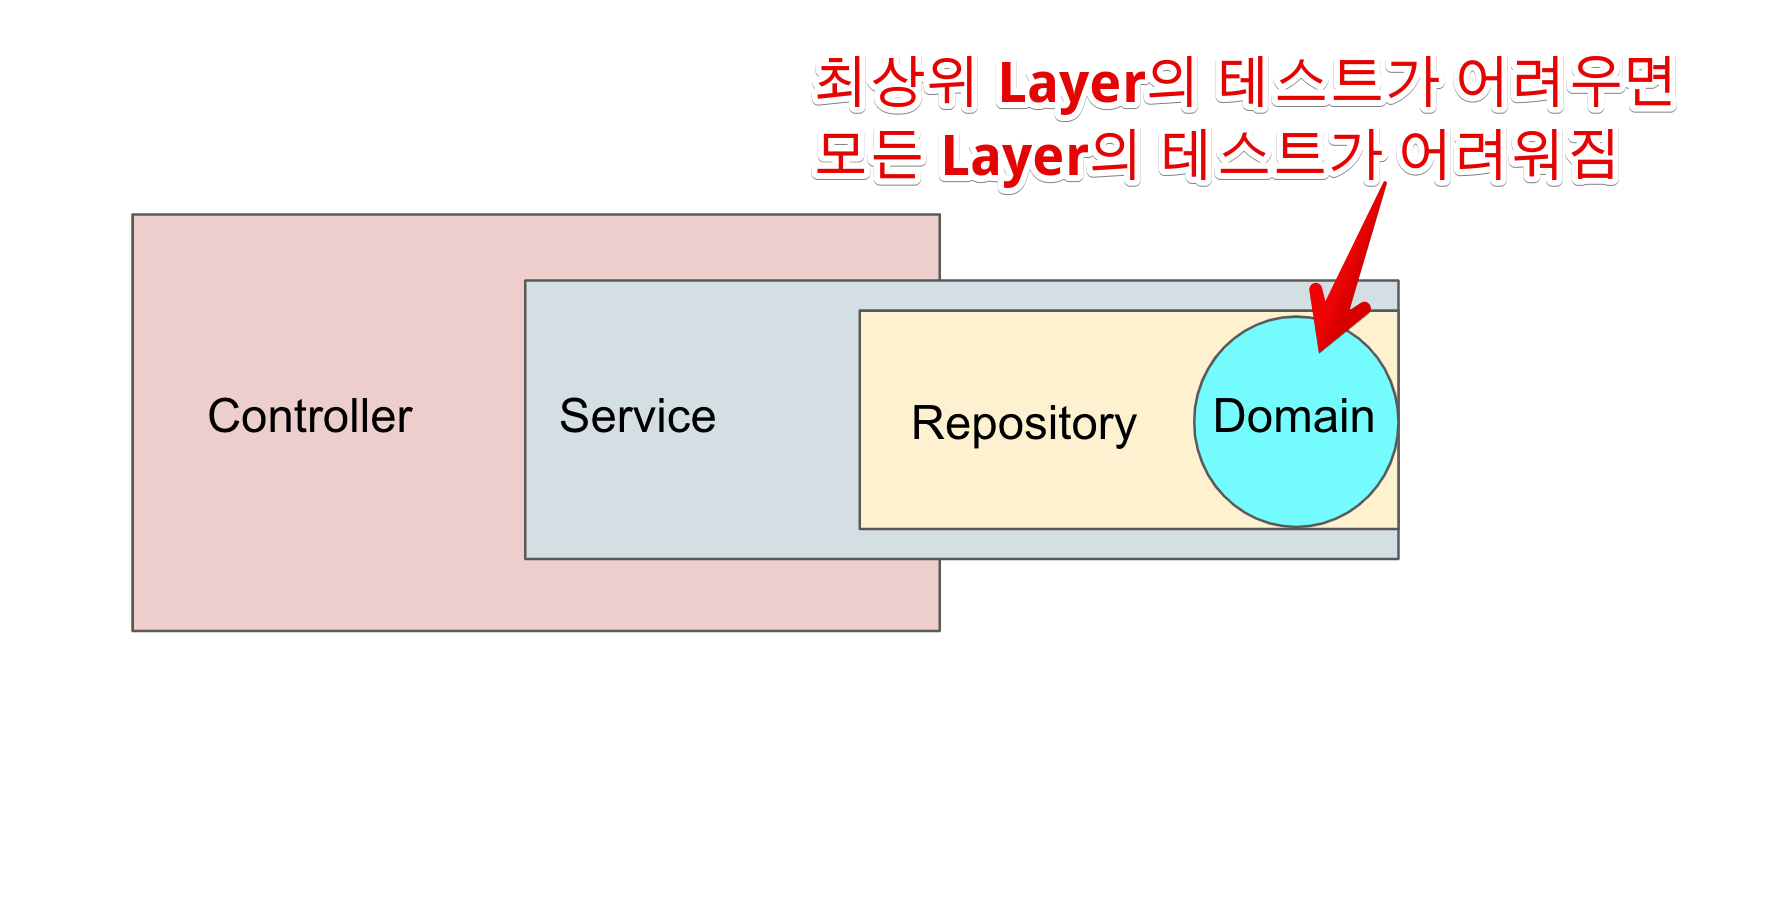
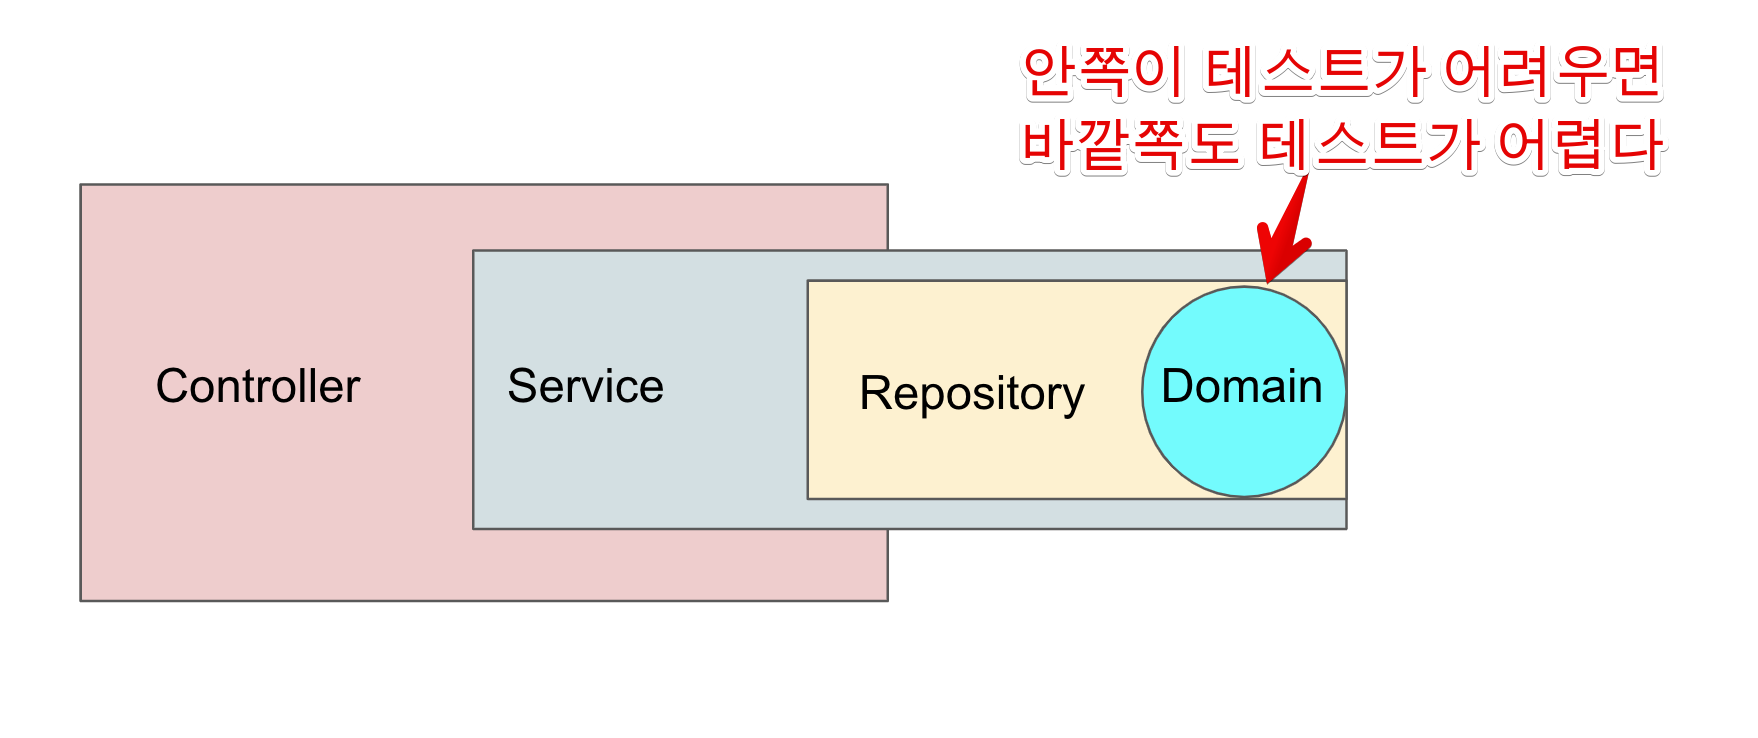
Controller / Service 예제 추가

Changed region(s): [[0.0307, 0.0623, 0.9522, 0.8415]]

diff --git a/src/order/Order.ts b/src/order/Order.ts
@@ -1,9 +1,9 @@
 import { DayOfWeek, LocalDateTime } from 'js-joda';
 import { OrderStatus } from './OrderStatus';
 import { Pay } from './Pay';
-import { getConnection, getManager } from 'typeorm';
+import { getConnection } from 'typeorm';
 
-export default class Order {
+export class Order {
 
     private _id: number;
     private _amount: number;
@@ -83,7 +83,7 @@ export default class Order {
         return cancelOrder;
     }
 
-    async cancelOrder(): void {
+    async cancelOrder() {
         const cancelTime = LocalDateTime.now();
         if(this._orderDateTime >= cancelTime) {
             throw new Error('주문 시간이 주문 취소 시간보다 늦을 수 없습니다.');

diff --git a/src/order/OrderService.ts b/src/order/OrderService.ts
@@ -11,9 +11,15 @@ export class OrderService {
         ) {
     }
 
-    validateCompletedOrder(orderId: number): void {
-        const order = this.orderRepository.findById(orderId);
-        if(order.isNotCompleted()) {
+    discount(orderId: number) {
+        const order:Order = this.orderRepository.findById(orderId);
+        order.discount();
+        this.orderRepository.save(order);
+    }
+
+    async validateCompletedOrder(orderId: number): Promise<void> {
+        const order = await this.orderRepository.findById(orderId);
+        if (order.isNotCompleted()) {
             throw new Error('아직 완료처리되지 못했습니다.');
         }
     }

diff --git a/src/order/OrderController.ts b/src/order/OrderController.ts
@@ -1,4 +1,4 @@
-import { Controller, Get } from '@nestjs/common';
+import { Controller, Get, Post } from '@nestjs/common';
 import { OrderService } from './OrderService';
 
 @Controller('/order')
@@ -8,5 +8,10 @@ export class OrderController {
     @Get('/accept')
     accept(orderId: number): void {
         return this.orderService.accept(orderId);
+    }
+
+    @Post('/discount')
+    discount(orderId: number): void {
+        return this.orderService.discount(orderId);
     }
 }

diff --git a/src/order/OrderRepository.ts b/src/order/OrderRepository.ts
@@ -27,7 +27,7 @@ export class OrderRepository {
         }
     }
 
-    findById(id: number): Order | undefined {
+    findById(id: number): Order {
         return OrderRepository.database.get(id);
     }
 }

diff --git a/posts/testable-code/2/README.md b/posts/testable-code/2/README.md
@@ -1,14 +1,11 @@
 # 2. 테스트하기 좋은 코드 - 테스트하기 좋은 코드로 개선
 
 [1편](https://jojoldu.tistory.com/674) 을 통해 테스트하기 어려운 코드에 대해 이야기를 나눴다.  
-이번 편에서는 테스트하기 어려운 코드를 어떻게 테스트 하기 좋은 형태로 개선하는지 
-
-특히 오래된 프로젝트를 보면, 다음과 같이 **제어할 수 없는 함수**가 굉장히 많다.
-
-다음과 같은 코드는 **테스트 작성이 너무나 어렵다**.
-
+이번 편에서는 테스트하기 어려운 코드를 어떻게 테스트 하기 좋은 형태로 개선하는지 이야기해보려고 한다.
 
 ## 2-1. 리팩토링
+
+먼저 앞에서 보았던 `discount()` 코드를 다시 보자.   
 
 ```ts
 export default class Order {
@@ -22,6 +19,46 @@ export default class Order {
 }
 ```
 
+여기서 `discount()`는 **도메인의 로직** (`Order`) 으로 되어있다.  
+이렇게 작성되면 이 함수의 테스트가 어려운 것도 문제지만, **계층 전반의 테스트가 어려워진다**는 더 큰 문제가 있다.  
+  
+예를 들어 위 코드를 Spring, Nest.js 등의 MVC 프레임워크로 API로 만들어낸다고 가정해보면 다음과 같다.  
+  
+**Service.ts**
+
+```ts
+export class OrderService {
+    constructor(
+        private readonly orderRepository: OrderRepository,
+        ...
+        ) {
+    }
+    async discount(orderId: number) {
+        const order:Order = await this.orderRepository.findById(orderId);
+        order.discount();
+        await this.orderRepository.save(order);
+    }
+    ...
+}
+```
+
+**Controller.ts**
+
+```ts
+@Controller('/order')
+export class OrderController {
+    constructor(private readonly orderService: OrderService) {}
+
+    @Post('/discount')
+    discount(orderId: number): void {
+        return this.orderService.discount(orderId);
+    }
+}
+
+```
+
+
+![layer](./images/layer.png)
 
 ```ts
 export default class Order {
@@ -69,6 +106,10 @@ public async acceptOrder(amount: number, description: string) {
 * `await this.repository.acceptOrder(order)`
 
 이 둘이 테스트
+
+테스트 하기 어려운 코드들은 최대한 한 곳에서 관리하고,  
+이 코드들이 전파되지 않도록 해야한다.
+
 
 ## 테스트 하기 좋은 코드로 리팩토링
 
